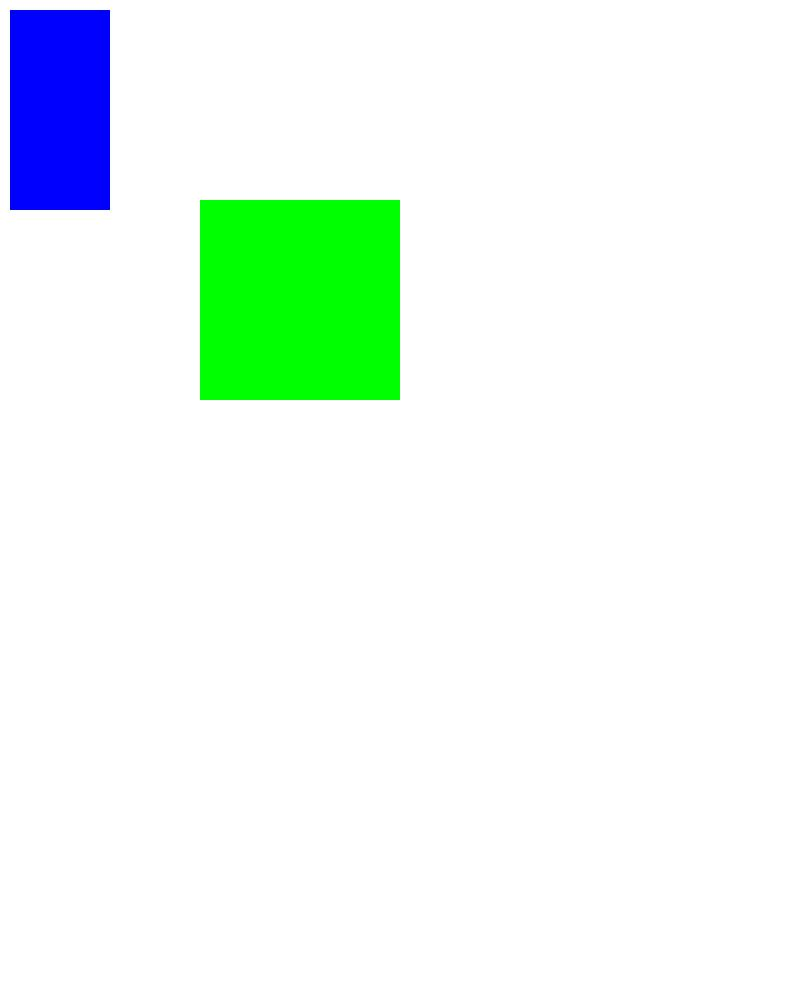
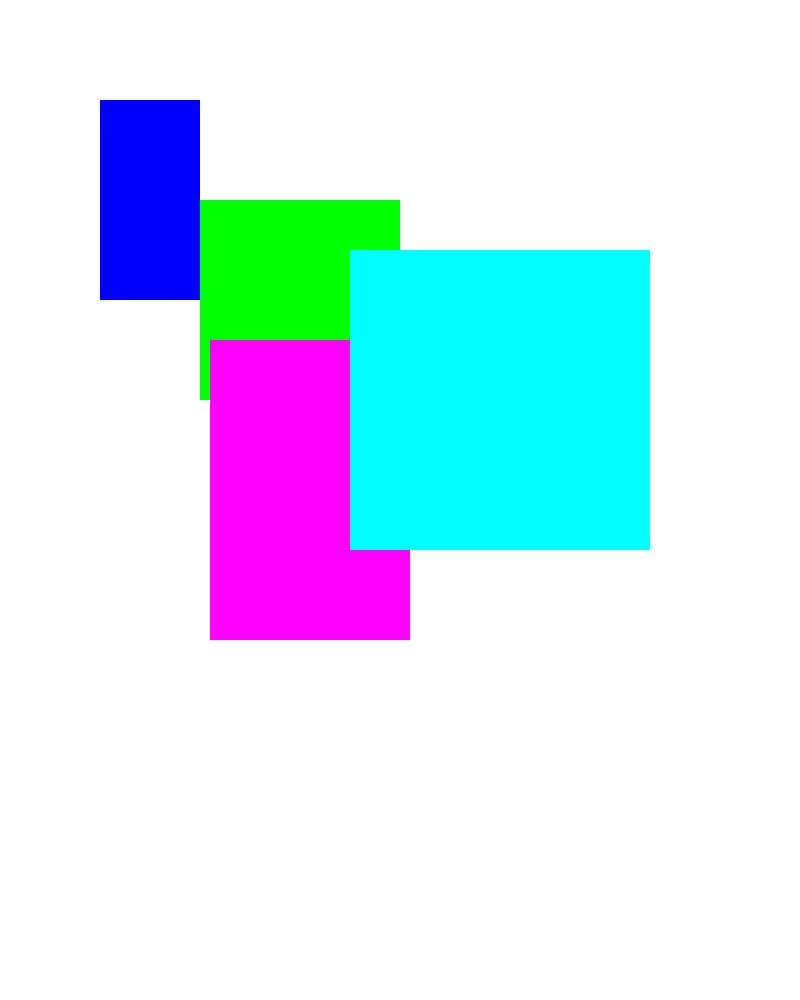
More instances added in main

Changed region(s): [[0.25, 0.248, 0.8125, 0.651], [0.0, 0.0, 0.25, 0.31]]

diff --git a/App-3-Project-Math-Painting/main.py b/App-3-Project-Math-Painting/main.py
@@ -4,10 +4,16 @@ from shapes import Rectangle, Square
 
 bkgrd = Canvas(1000,800,[255,255,255])
 
-rect1 = Rectangle(x=10, y=10, width=100, height=200, RGBcolor=(0,0,255))
+rect1 = Rectangle(x=100, y=100, width=100, height=200, RGBcolor=(0,0,255))
 rect1.draw(bkgrd)
 
 sq1 = Square(x=200, y=200, side=200, RGBcolor=[0,255,0])
 sq1.draw(bkgrd)
+
+rect2 = Rectangle(x=210, y=340, width=200, height=300, RGBcolor=(255,0,255))
+rect2.draw(bkgrd)
+
+sq2 = Square(x=350, y=250, side=300, RGBcolor=[0,255,255])
+sq2.draw(bkgrd)
 
 bkgrd.save_img('first_attempt.jpg')
